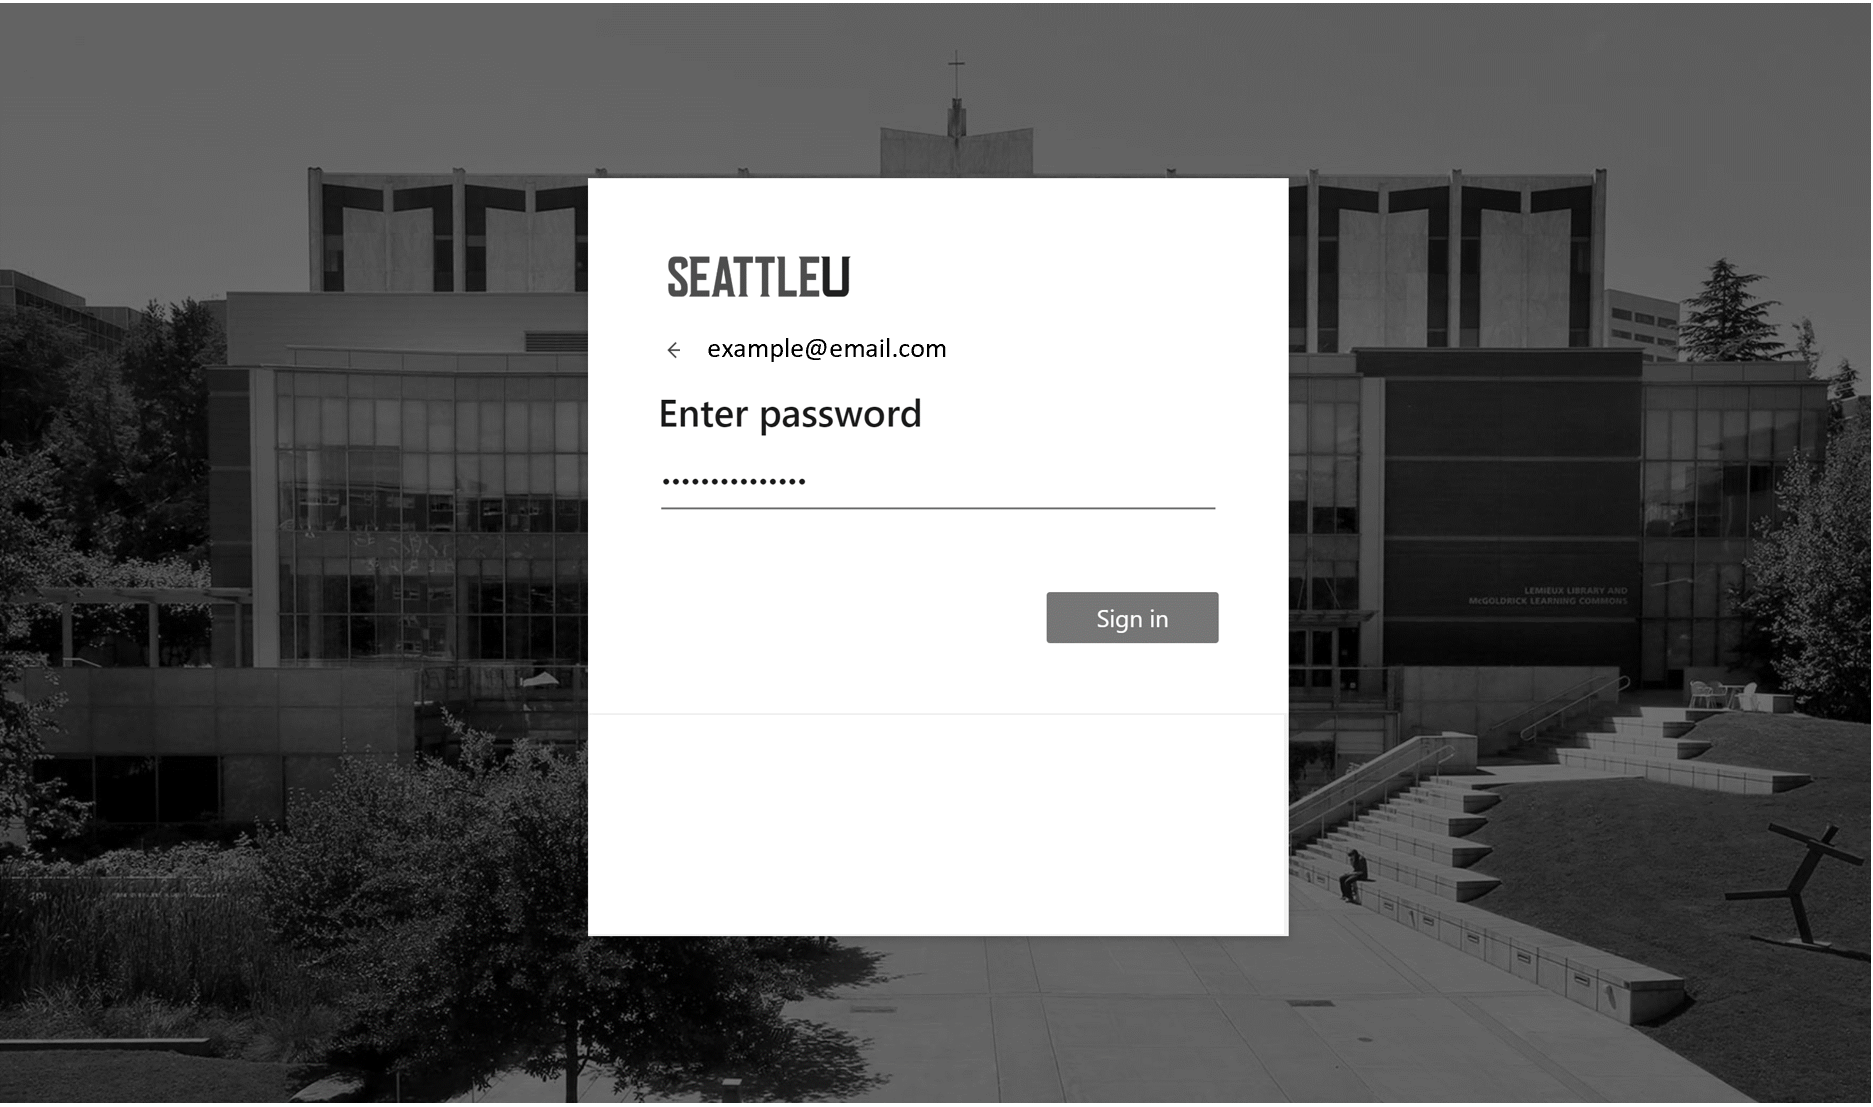
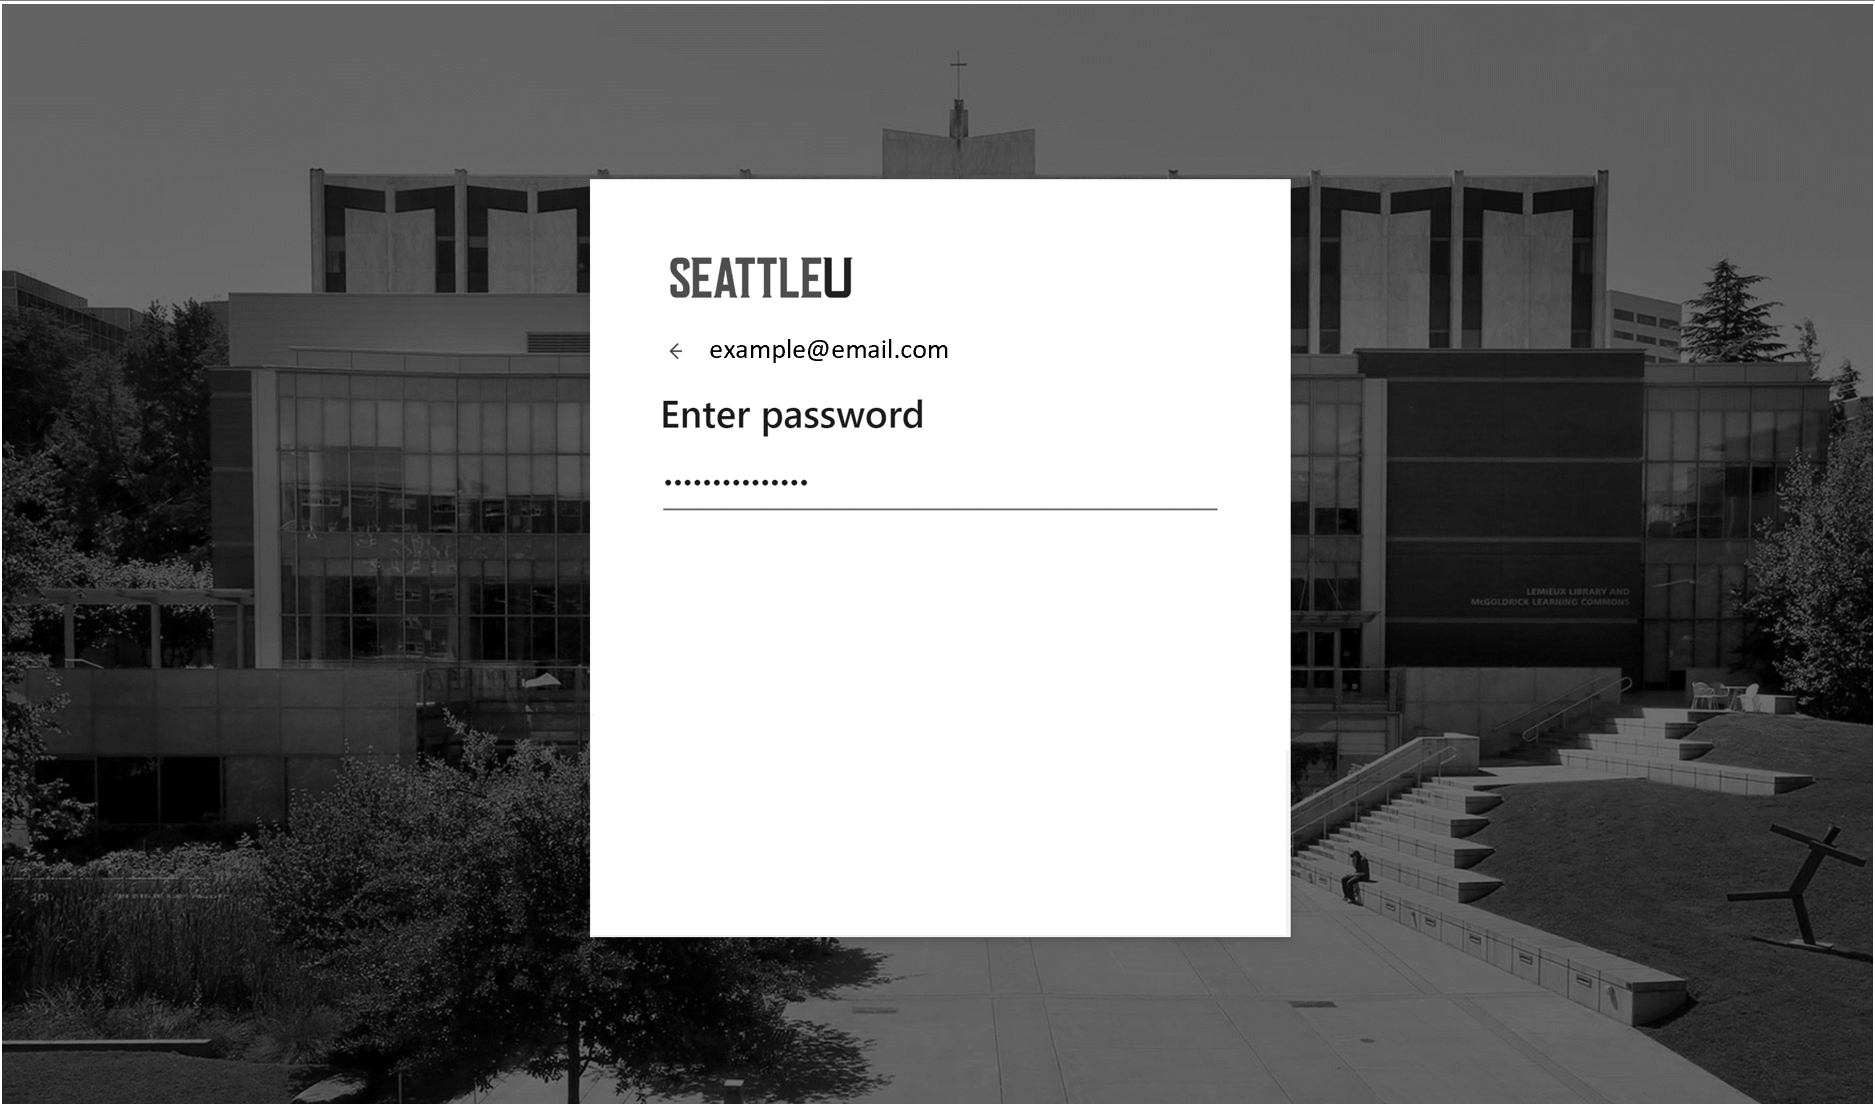
added background image

diff --git a/SwapUp/wwwroot/css/SignInPage.css b/SwapUp/wwwroot/css/SignInPage.css
@@ -1,0 +1,15 @@
+body {
+    background-image: url('../data/signin.png');
+    background-repeat: no-repeat;
+    background-attachment: fixed;
+    background-position-x: center;
+    background-size: 85% 100%;
+}
+
+
+.SigninButton {
+    width: 90px;
+    height: 40px;
+    margin-left: 55%;
+    margin-top: 25%;
+}
